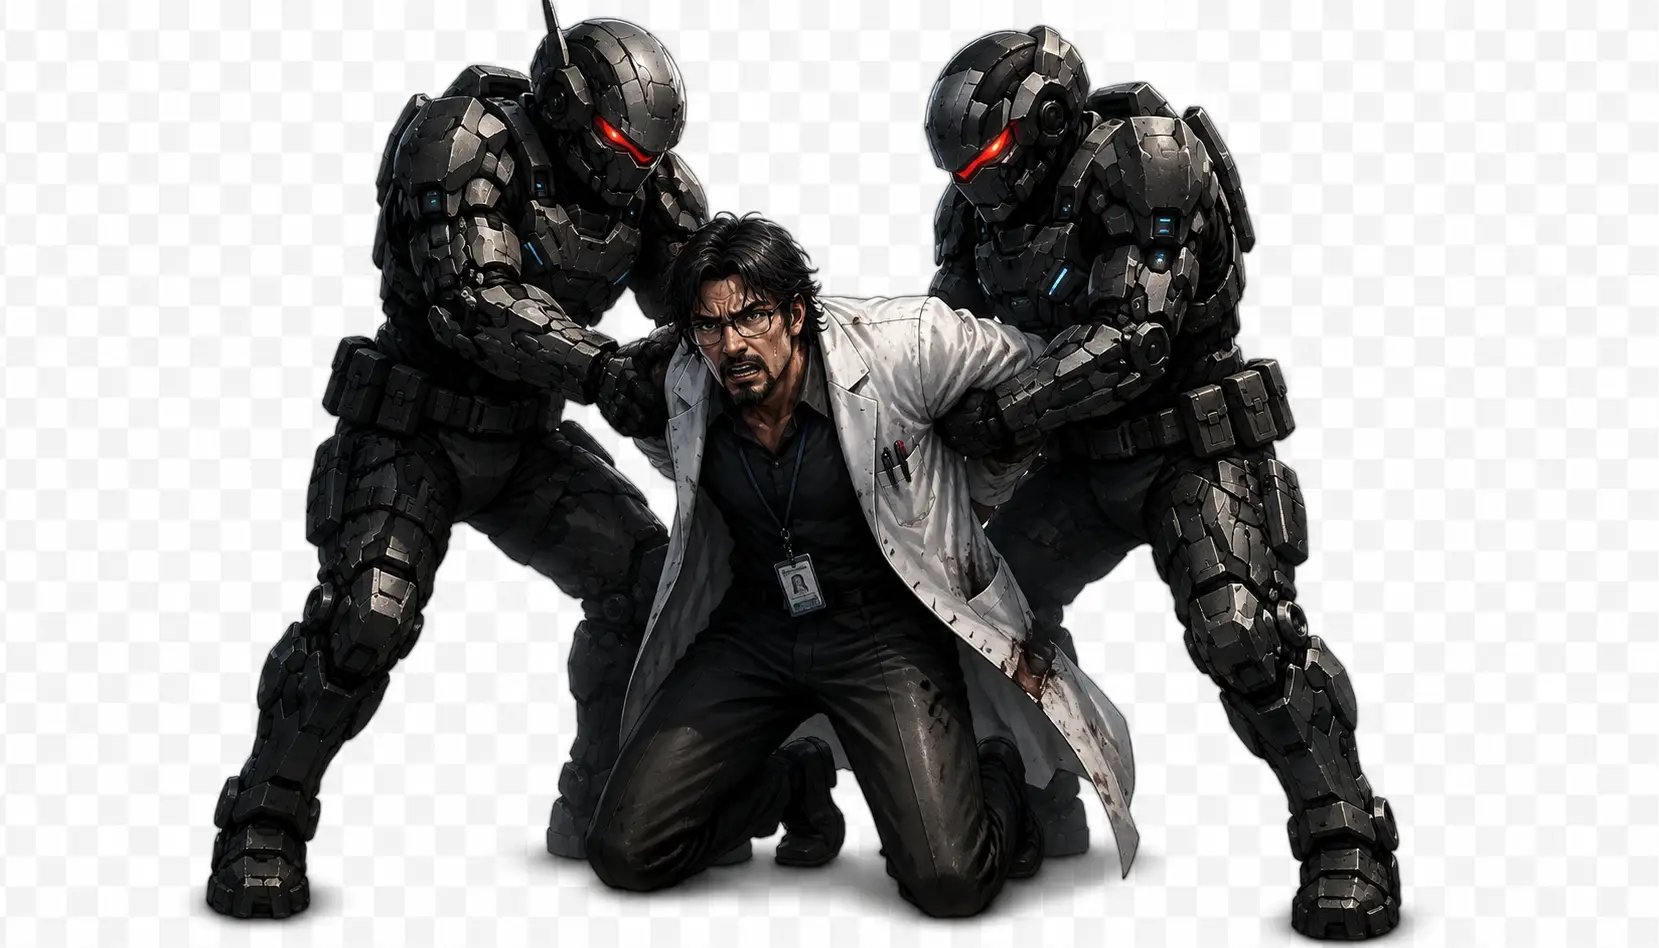
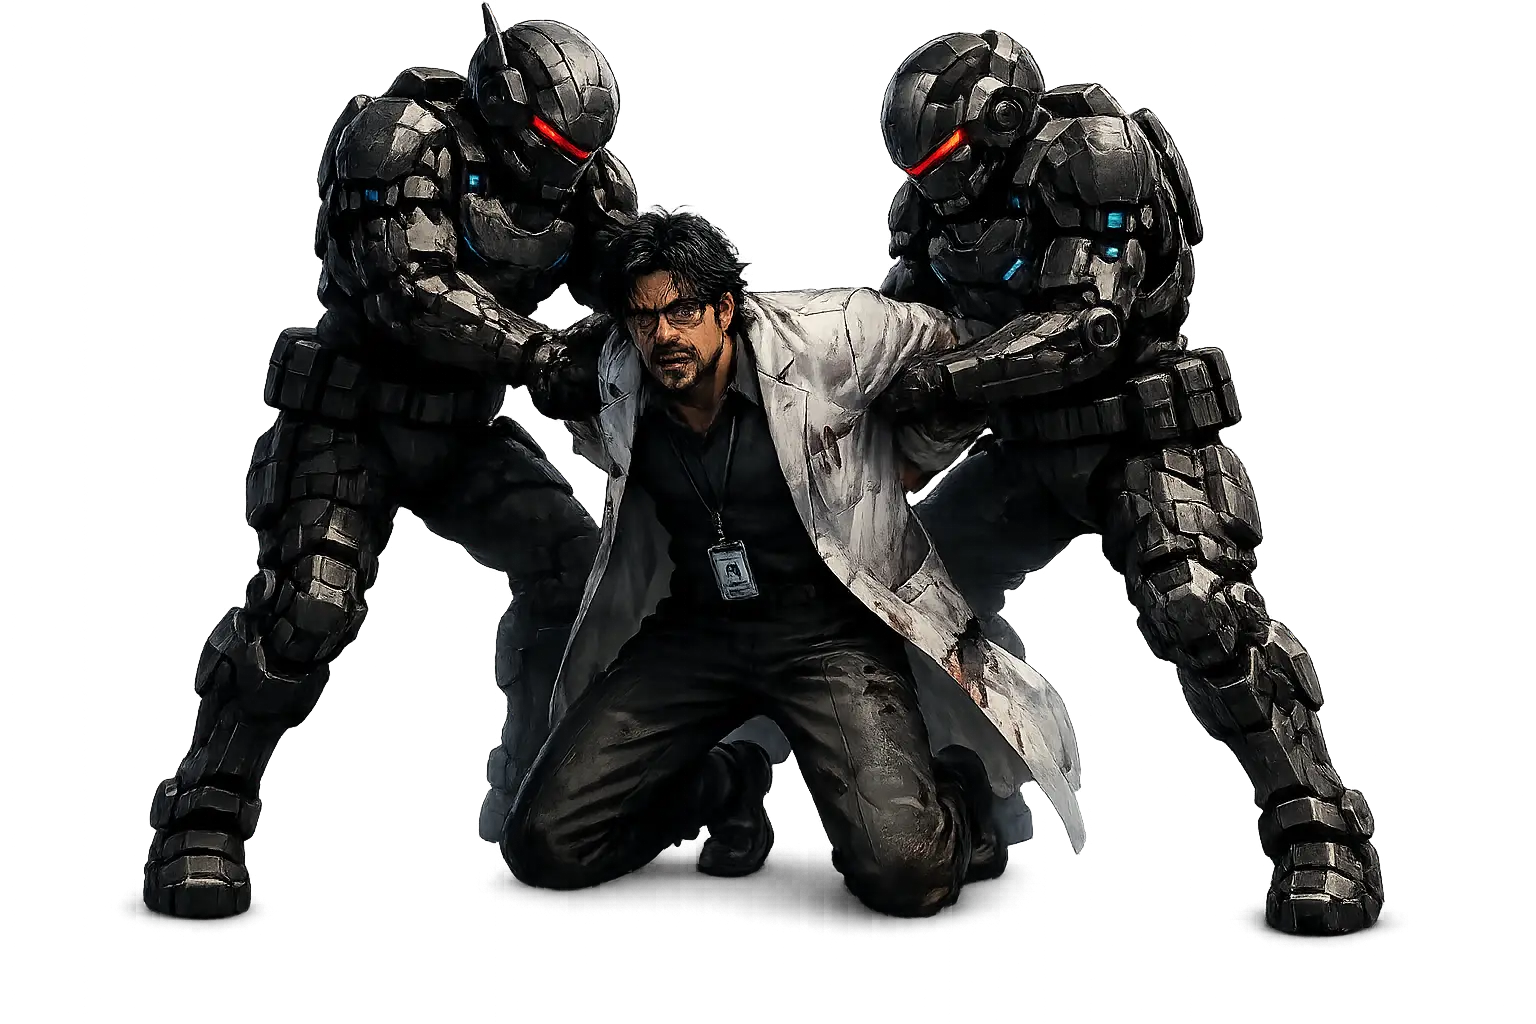
Refactor code structure for improved readability and maintainability

diff --git a/style.css b/style.css
@@ -593,3 +593,32 @@ Narration
         transform: translateX(0);
     }
 }
+
+
+/* ===========================
+Reset Toast (Save button)
+=========================== */
+
+.reset-toast {
+    position: fixed;
+    left: 50%;
+    bottom: 8%;
+    transform: translate(-50%, 20px);
+    z-index: 10;
+    padding: 0.8rem 1.6rem;
+    border-radius: 999px;
+    background: rgba(5, 15, 35, 0.9);
+    border: 2px solid var(--glow-color);
+    color: #fff;
+    font-size: 1rem;
+    letter-spacing: 0.5px;
+    box-shadow: 0 0 18px rgba(76, 200, 255, 0.5);
+    opacity: 0;
+    pointer-events: none;
+    transition: opacity 0.3s ease, transform 0.3s ease;
+}
+
+.reset-toast.show {
+    opacity: 1;
+    transform: translate(-50%, 0);
+}

diff --git a/script.js b/script.js
@@ -141,7 +141,7 @@ function handleButtonClick(action) {
       break;
     }
     case 'save':
-      console.log('Open Save Menu');
+      resetGame();
       break;
     case 'equipments':
       console.log('Open Equipment Menu');
@@ -158,4 +158,30 @@ function loadSave() {
   } catch (e) {
     return null;
   }
+}
+
+function resetGame() {
+  localStorage.removeItem('rescueMission_save');
+  const fresh = { money: 100, skill: [] };
+  try {
+    localStorage.setItem('rescueMission_save', JSON.stringify(fresh));
+  } catch (e) {
+    console.error('Failed to reset save:', e);
+  }
+  console.log('Save data cleared. Coin reset to 100.');
+  showResetFeedback();
+}
+
+function showResetFeedback() {
+  let toast = document.getElementById('resetToast');
+  if (!toast) {
+    toast = document.createElement('div');
+    toast.id = 'resetToast';
+    toast.className = 'reset-toast';
+    document.body.appendChild(toast);
+  }
+  toast.textContent = 'Đã đặt lại: Xu = 100';
+  toast.classList.add('show');
+  clearTimeout(toast._t);
+  toast._t = setTimeout(() => toast.classList.remove('show'), 1500);
 }

diff --git a/chap_1/chap1-1.js b/chap_1/chap1-1.js
@@ -281,8 +281,10 @@ function showSaveFeedback() {
 // ============================
 // START
 // ============================
-document.addEventListener('DOMContentLoaded', init);
-initBackgroundMusic();
+document.addEventListener('DOMContentLoaded', () => {
+    init();
+    initBackgroundMusic();
+});
 
 // ============================
 // BACKGROUND MUSIC (autoplay, no UI)

diff --git a/chap_1/chap1.js b/chap_1/chap1.js
@@ -281,8 +281,10 @@ function showSaveFeedback() {
 // ============================
 // START
 // ============================
-document.addEventListener('DOMContentLoaded', init);
-initBackgroundMusic();
+document.addEventListener('DOMContentLoaded', () => {
+    init();
+    initBackgroundMusic();
+});
 
 // ============================
 // BACKGROUND MUSIC (autoplay, no UI)